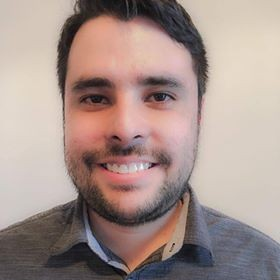
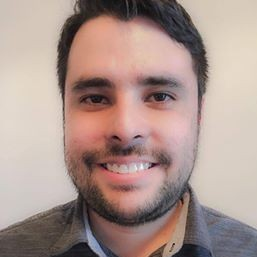
Adding photo again and twitter link.

diff --git a/_includes/sub_header.html b/_includes/sub_header.html
@@ -1,5 +1,13 @@
 <div class="social">
 
+    <img src="http://cf.jare.io/?u=http://www.alayor.com/assets/images/alonso.jpg"
+    class="photo" alt="Alonso A. Ortega">
+    <br/>
+
+    <a href="https://twitter.com/{{ site.twitter_username }}" title="My Github profile" target="_blank">
+        <i class="fa fa-twitter"></i>
+    </a>
+
     <a href="https://github.com/{{ site.github_username }}" title="My Github profile" target="_blank">
         <i class="fa fa-github"></i>
     </a>

diff --git a/_sass/_layout.scss b/_sass/_layout.scss
@@ -111,6 +111,12 @@
     margin: 10px;
     font-size: 19px;
   }
+
+  .photo {
+    border-radius: 50%;
+    height: 80px;
+    width: 80px;
+  }
 }
 
 
